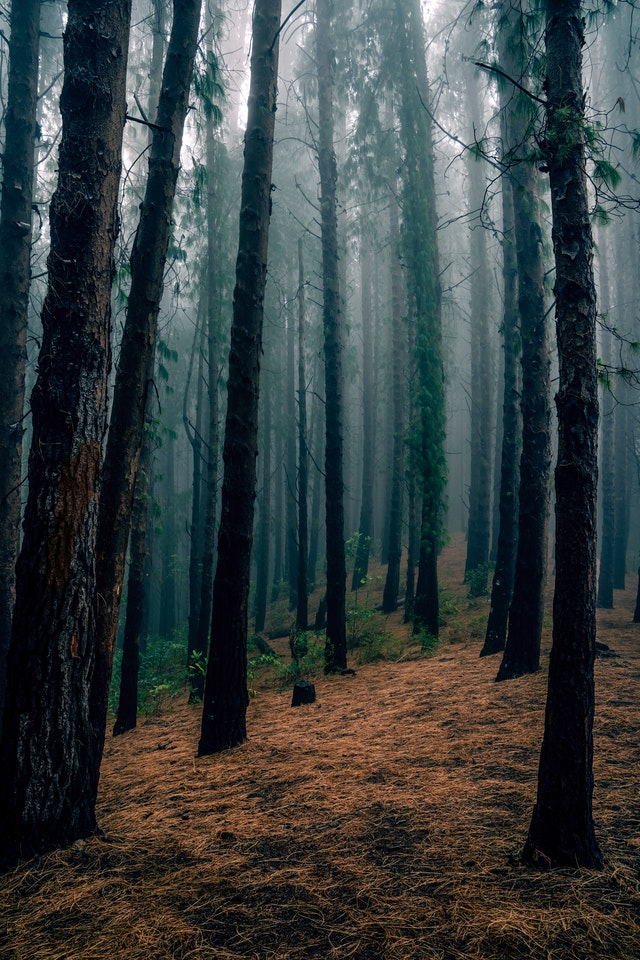
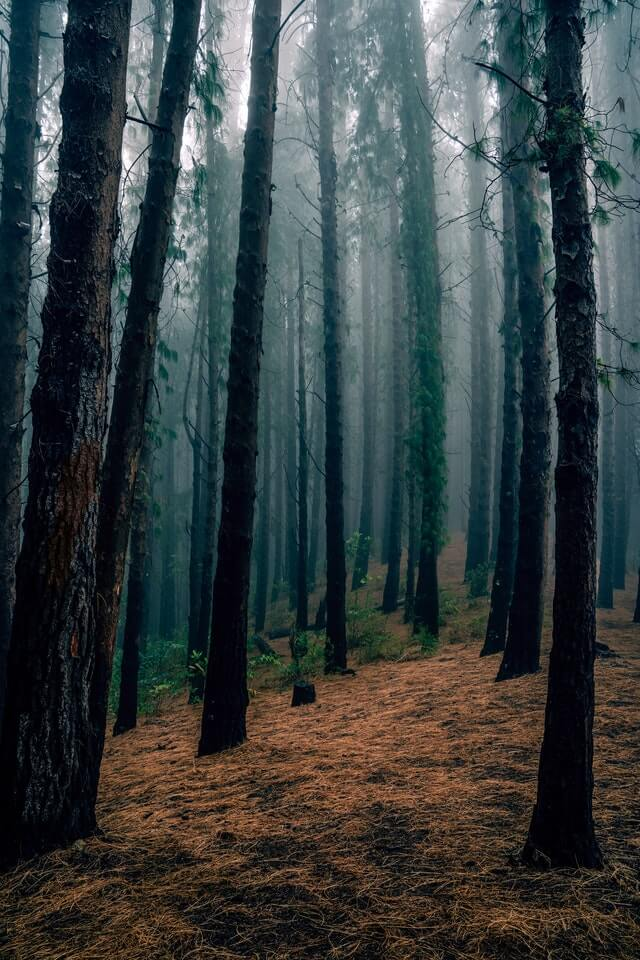
Adding reduced size images. Fixes #34

diff --git a/index.html b/index.html
@@ -22,8 +22,8 @@
   <meta property="og:url" content="https://guillaumecle.me" />
   <link rel="canonical" href="http://guillaumecle.me" />
 
-  <meta property="og:image" content="https://guillaumecle.me/img/og-image.jpg" />
-  <meta property="og:image:secure_url" content="https://guillaumecle.me/img/og-image.jpg" />
+  <meta property="og:image" content="https://guillaumecle.me/img/og-image.png" />
+  <meta property="og:image:secure_url" content="https://guillaumecle.me/img/og-image.png" />
   <meta property="og:image:alt" content="Guillaume Clement&#039;s Portfolio Cover" />
   <meta property="og:image:width" content="1280" />
   <meta property="og:image:height" content="640" />
@@ -40,7 +40,7 @@
   <meta name="twitter:site" content="&#064;GuillaumeCleme" />
   <meta name="twitter:title" content="Guillaume Clement&#039;s personal portfolio." />
   <meta name="twitter:description" content="View Guillaume&#039;s portfolio and contact information." />
-  <meta name="twitter:image" content="https://guillaumecle.me/img/og-image.jpg" />
+  <meta name="twitter:image" content="https://guillaumecle.me/img/og-image.png" />
 
   <!-- Global site tag (gtag.js) - Google Analytics -->
   <script async src="https://www.googletagmanager.com/gtag/js?id=UA-141950820-1" rel="preconnect"></script>
